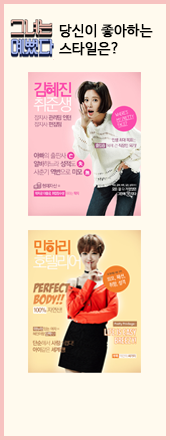
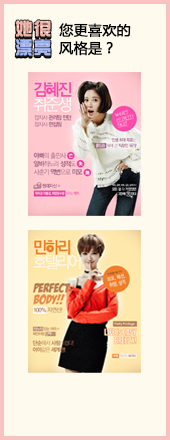
MAIN 한국어를 중국어로

Changed region(s): [[0.0588, 0.0295, 0.9118, 0.1477]]

diff --git a/oozoobox/css/oz_mh/oz_mh.css b/oozoobox/css/oz_mh/oz_mh.css
@@ -195,8 +195,8 @@ fieldset legend{display: none;}
 .banner-con .banner-slider .small-_banner_con {margin: -486px auto 0px; width: 1620px; height: 0px; padding-right: 30px; position: relative;}
 .category-con .small_banner_con .small_banner {top: 27px; width: 170px; height: 440px; right:165px; position: absolute; z-index: 100;}
 .small_banner_con .small_banner .small_banner_btn {position: absolute; top:390px; right:28px; width:114px; height:30px; background:rgb(237,50,85); display:inline-block;}
-.small_banner_con .small_banner .small_banner_btn :hover{width:114px; height:30px; background:rgb(243,156,18); display:inline-block;}
-.small_banner_con .small_banner .small_banner_btn .btn_object {color:rgb(255,255,255); font-size:14px; line-height:26px;}
+.small_banner_con .small_banner .small_banner_btn:hover{background:rgb(243,156,18);}
+.small_banner_con .small_banner .small_banner_btn .btn_object {color:rgb(255,255,255); font-size:14px; line-height:26px; padding-left:6px}
 
 @media all and (max-width:1910px)
 {

diff --git a/oozoobox/thema/Basic/shop.index.php b/oozoobox/thema/Basic/shop.index.php
@@ -123,7 +123,7 @@ $result = sql_query($sql);
             	<a class="small_banner">
                 	<img width="170" height="440" alt="" src="/images/small_banner01.png"/>
                     <div class="small_banner_btn">
-                    	<span class="btn_object">现在就去投票吧</span>
+                    	<span class="btn_object">现在就去投票吧!</span>
                     </div>
                 </a>           
             </div>
@@ -722,9 +722,9 @@ $result = sql_query($sql);
                         	<img src="/images/md_01.png"/>
                         </a>
                         <a class="market_info" href="#">
-                            날이 많이 추워졌어요.<br>
-                            김이 모락모락 나는 라면 한 그릇과<br>
-                            오늘 저녁은 함께 할래요! 
+                            气温突降的寒夜里，<br>
+                            今天晚餐来碗<br>
+                            热气腾腾的拉面怎么样？
                         </a>
                         <a class="market_good" href="#">
                                 <span class="market_good_no">2,501</span>
@@ -740,10 +740,9 @@ $result = sql_query($sql);
                         	<img src="/images/md_02.png"/>
                         </a>
                         <a class="market_info" href="#">
-                            집에 돌아가는 길에 <br>
-                            신라면 어떠세요?<br>
-                            오늘 아빠의 퇴근길은<br>
-                            발걸음이 유난히 가볍습니다.   
+                            回家的路上买上辛拉面回去吃？<br>
+                            今天爸爸下班回家的脚步<br>
+                            声格外轻快。
                         </a>
                         <a class="market_good" href="#">
                                 <span class="market_good_no">2,501</span>
@@ -759,9 +758,9 @@ $result = sql_query($sql);
                         	<img src="/images/md_03.png"/>
                         </a>
                         <a class="market_info" href="#">
-                            보송보송한 아기 엉덩이<br>
-                            오늘도 기분이 좋은지<br>
-                            샤방샤방한 미소를 지어요 
+                            宝宝干爽的小屁屁，<br>
+                            看这笑得格外开怀的小脸，<br>
+                            看来今天的心情也很好呢！
                         </a>
                         <a class="market_good" href="#">
                                 <span class="market_good_no">2,501</span>
@@ -777,9 +776,8 @@ $result = sql_query($sql);
                         	<img src="/images/md_04.png"/>
                         </a>
                         <a class="market_info" href="#">
-                            당신의 건강을 지켜 줄<br>
-                            옐로푸드 레드푸드<br>
-                            함께해요~
+                        为了您的健康，<br>
+                        供应新鲜的黄色食品和红色食品。
                         </a>
                         <a class="market_good" href="#">
                                 <span class="market_good_no">2,501</span>
@@ -798,9 +796,9 @@ $result = sql_query($sql);
                         	<img src="/images/md_01.png"/>
                         </a>
                         <a class="market_info" href="#">
-                            날이 많이 추워졌어요.<br>
-                            김이 모락모락 나는 라면 한 그릇과<br>
-                            오늘 저녁은 함께 할래요! 
+                            气温突降的寒夜里，<br>
+                            今天晚餐来碗<br>
+                            热气腾腾的拉面怎么样？
                         </a>
                         <a class="market_good" href="#">
                                 <span class="market_good_no">2,501</span>
@@ -817,10 +815,9 @@ $result = sql_query($sql);
                         	<img src="/images/md_02.png"/>
                         </a>
                         <a class="market_info" href="#">
-                            집에 돌아가는 길에 <br>
-                            신라면 어떠세요?<br>
-                            오늘 아빠의 퇴근길은<br>
-                            발걸음이 유난히 가볍습니다.   
+                            回家的路上买上辛拉面回去吃？<br>
+                            今天爸爸下班回家的脚步<br>
+                            声格外轻快。
                         </a>
                         <a class="market_good" href="#">
                                 <span class="market_good_no">2,501</span>
@@ -837,9 +834,8 @@ $result = sql_query($sql);
                         	<img src="/images/md_03.png"/>
                         </a>
                         <a class="market_info" href="#">
-                            보송보송한 아기 엉덩이<br>
-                            오늘도 기분이 좋은지<br>
-                            샤방샤방한 미소를 지어요 
+                        为了您的健康，<br>
+                        供应新鲜的黄色食品和红色食品。
                         </a>
                         <a class="market_good" href="#">
                                 <span class="market_good_no">2,501</span>
@@ -855,9 +851,8 @@ $result = sql_query($sql);
                         	<img src="/images/md_04.png"/>
                         </a>
                         <a class="market_info" href="#">
-                            당신의 건강을 지켜 줄<br>
-                            옐로푸드 레드푸드<br>
-                            함께해요~
+                        为了您的健康，<br>
+                        供应新鲜的黄色食品和红色食品。
                         </a>
                         <a class="market_good" href="#">
                                 <span class="market_good_no">2,501</span>
